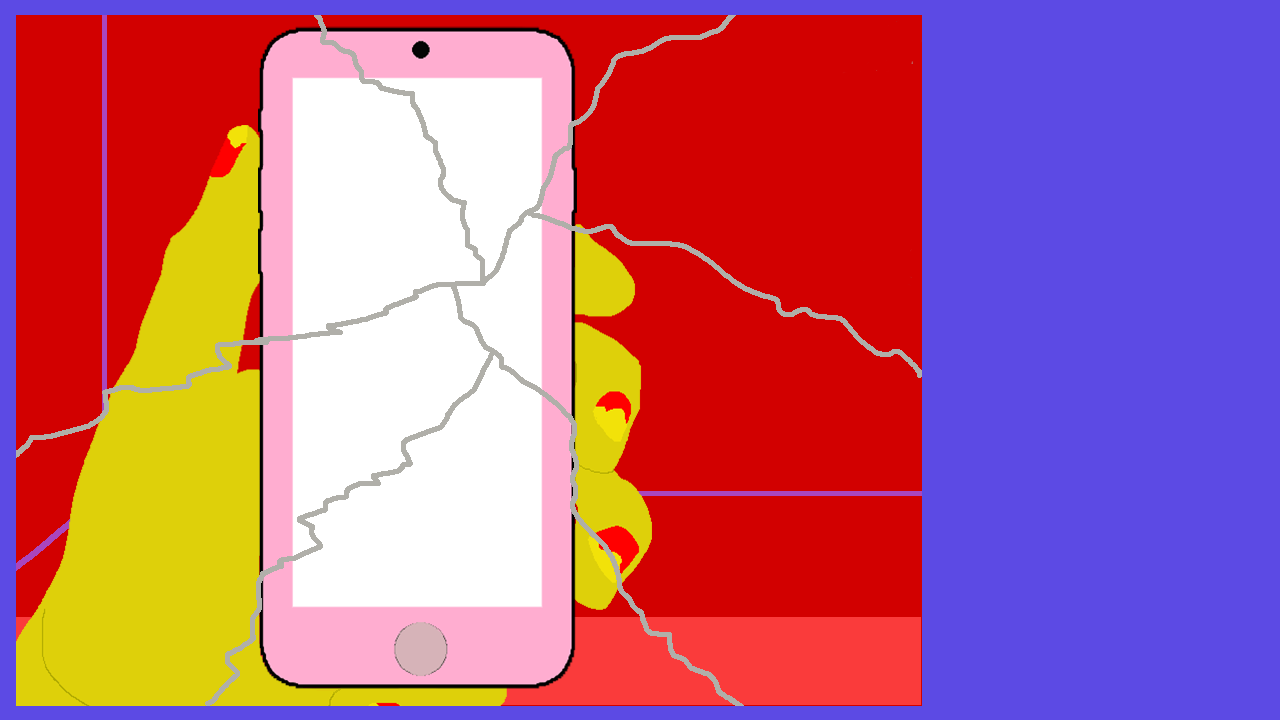
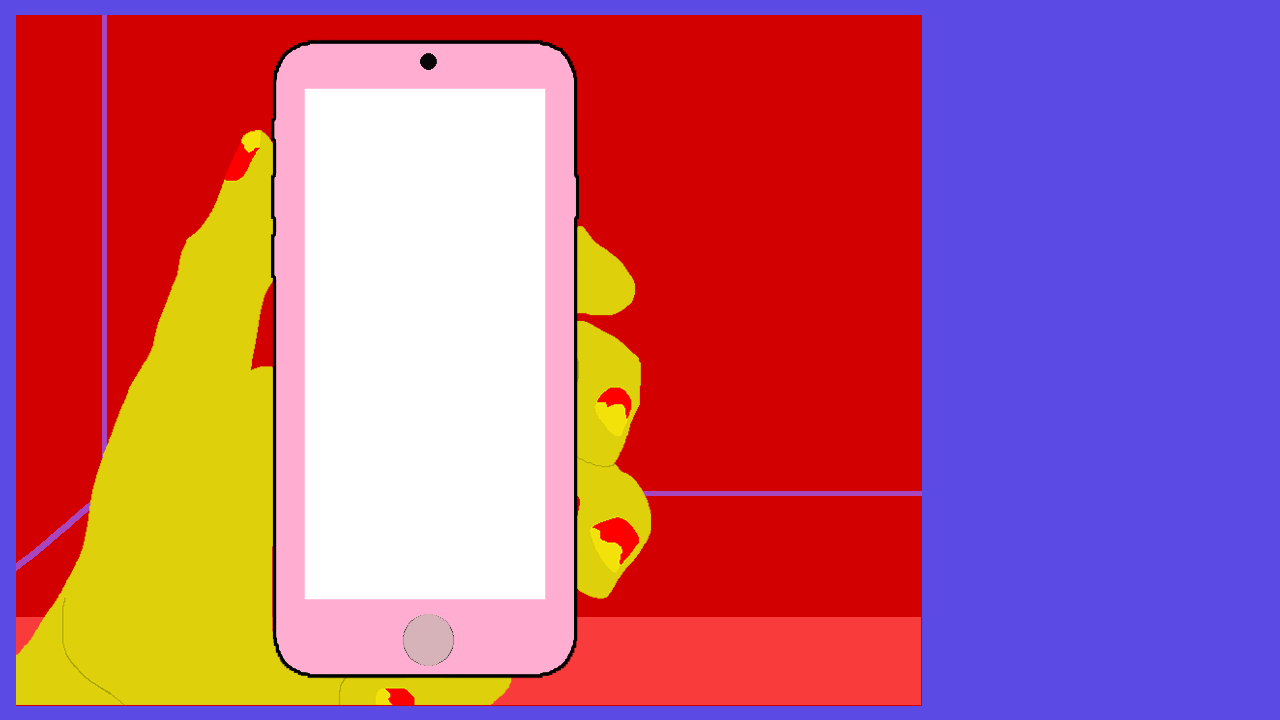
comment background

diff --git a/src/scenes/Comment.js b/src/scenes/Comment.js
@@ -16,7 +16,13 @@ class Comment extends Phaser.Scene {
     this.load.image("comments4.1", "./assets/comments4(ver1).png");
     this.load.image("comments4.2", "./assets/comments4(ver2).png");
 
-    this.load.image("background", "./assets/testBackGround.png");
+    this.load.image("bgcomment1", "./assets/commentBg1.png");
+    this.load.image("bgcomment2", "./assets/commentBg2.png");
+    this.load.image("bgcomment3", "./assets/commentBg3.png");
+    this.load.image("bgcomment4", "./assets/commentBg4.png");
+    this.load.image("bgcomment5", "./assets/commentBg5.png");
+    this.load.image('crack2', './assets/crack2.png');
+
     this.load.image("reply1", "./assets/replyComment1.png");
     this.load.image("reply1.1(n/b)", "./assets/replyComment1(n).png");
     this.load.image("reply1.2(n/b)", "./assets/replyComment2(n).png");
@@ -54,33 +60,41 @@ class Comment extends Phaser.Scene {
   }
 
   create() {
+    this.crackScreen = 0;
     this.sound.play('notifComment');
       if(health >=87) {
+      this.add.tileSprite(0, 0, 1280, 720, "bgcomment1").setOrigin(0, 0);
     this.battery = this.physics.add.sprite(config.width / 1.5638, config.height / 19.726, "battery1", 0).setDepth(1);
     this.random = Math.floor(Math.random() * 3);
     console.log("random " +this.random);
       }//3 different options of comments for most positive
       else if (health <= 86 && health >= 65) {
+        this.add.tileSprite(0, 0, 1280, 720, "bgcomment2").setOrigin(0, 0);
         this.battery = this.physics.add.sprite(config.width / 1.5638, config.height / 19.726, "battery2", 0).setDepth(1);
         this.random = Math.floor(Math.random() * 1);
         console.log("random "+this.random);
         }
         else if (health <= 64 && health >= 35) {
+          this.add.tileSprite(0, 0, 1280, 720, "bgcomment2").setOrigin(0, 0);
             this.battery = this.physics.add.sprite(config.width / 1.5638, config.height / 19.726, "battery3", 0).setDepth(1);
             this.random = Math.floor(Math.random() * 1);
             console.log("random "+this.random);
         }
         else if (health <= 34 && health >= 25) {
+          this.add.tileSprite(0, 0, 1280, 720, "bgcomment3").setOrigin(0, 0);
             this.battery = this.physics.add.sprite(config.width / 1.5638, config.height / 19.726, "battery4", 0).setDepth(1);
             this.random = Math.floor(Math.random() * 1);
             console.log("random "+this.random);
         }//just because i made an extra battery it supposed to be 34 - 10
         else if (health <= 24 && health >= 10) {
+          this.add.tileSprite(0, 0, 1280, 720, "bgcomment4").setOrigin(0, 0);
             this.battery = this.physics.add.sprite(config.width / 1.5638, config.height / 19.726, "battery5", 0).setDepth(1);
             this.random = Math.floor(Math.random() * 1);
             console.log("random "+this.random);
         }//just because i made an extra battery it supposed to be 34 - 10
         else if (health <= 9 && health >= 1) {
+          this.crackScreen++;
+          this.add.tileSprite(0, 0, 1280, 720, "bgcomment5").setOrigin(0, 0);
             this.battery = this.physics.add.sprite(config.width / 1.5638, config.height / 19.726, "battery6", 0).setDepth(1);
             this.random = Math.floor(Math.random() * 1);
             console.log("random "+this.random);
@@ -101,10 +115,6 @@ class Comment extends Phaser.Scene {
 
     // mouse stuff
     this.input.setDefaultCursor("url(./assets/testFingerPointer.png), pointer");
-
-    this.normbackground = this.add
-      .tileSprite(0, 0, 1280, 720, "background")
-      .setOrigin(0, 0);
 
     this.complete = false;
     this.buttonNum = false;
@@ -482,7 +492,10 @@ else if(health <= 86 && health >= 65) {
       }
     } //Comment textures
 }
-
+  if (this.crackScreen > 0) {
+    this.add.image(639, 360, 'crack2');
+    console.log("inside");
+  }
     //just a fake timer for now
     this.timer = 0;
     this.timer2 = 0;

diff --git a/src/scenes/Filter.js b/src/scenes/Filter.js
@@ -50,12 +50,14 @@ class Filter extends Phaser.Scene {
         this.load.image('bg3', './assets/filterbg3.png');
         this.load.image('bg4', './assets/filterbg4.png');
         this.load.image('bg5', './assets/filterbg5.png');
+        this.load.image('crack1', './assets/crack1.png');
         this.load.image('post', './assets/postButton.png');
         this.load.atlas('instruction', './assets/instructFilter.png', './assets/instructFilter.json');
     }
 
     create() {
         this.index = 0;
+        this.crackScreen = 0;
 
         this.input.setDefaultCursor("url(./assets/testFingerPointer.png), pointer");
 
@@ -87,6 +89,7 @@ class Filter extends Phaser.Scene {
         }
         else {
             this.index = 4;
+            this.crackScreen++;
         }
 
         // instruction animation
@@ -109,9 +112,12 @@ class Filter extends Phaser.Scene {
         this.instruction = this.physics.add.sprite(config.width/2, config.height/30, 'instruction', 0).setScale(2);
 
         this.postButton = this.physics.add.sprite(config.width/3, (config.height/2)+228, 'post',0).setInteractive();
-
+        if (this.crackScreen > 0) {
+            this.add.image(637, 360, 'crack1');
+            console.log("inside");
+        }
         // filters that are draggable
-        this.heart = this.physics.add.sprite(config.width/1.2, config.height/4.8, 'heartFilter', 0).setInteractive();
+        this.heart = this.physics.add.sprite(config.width/1.15, config.height/4.8, 'heartFilter', 0).setInteractive();
         this.dog = this.physics.add.sprite(config.width/1.2, (config.height/4.8)+150, 'dogFilter', 0).setInteractive();
         this.rainbow = this.physics.add.sprite(config.width/1.2, (config.height/4.8)+450, 'rainbowFilter', 0).setInteractive();
         this.flower = this.physics.add.sprite(config.width/1.2, (config.height/4.8)+300, 'flowerFilter', 0).setInteractive();
